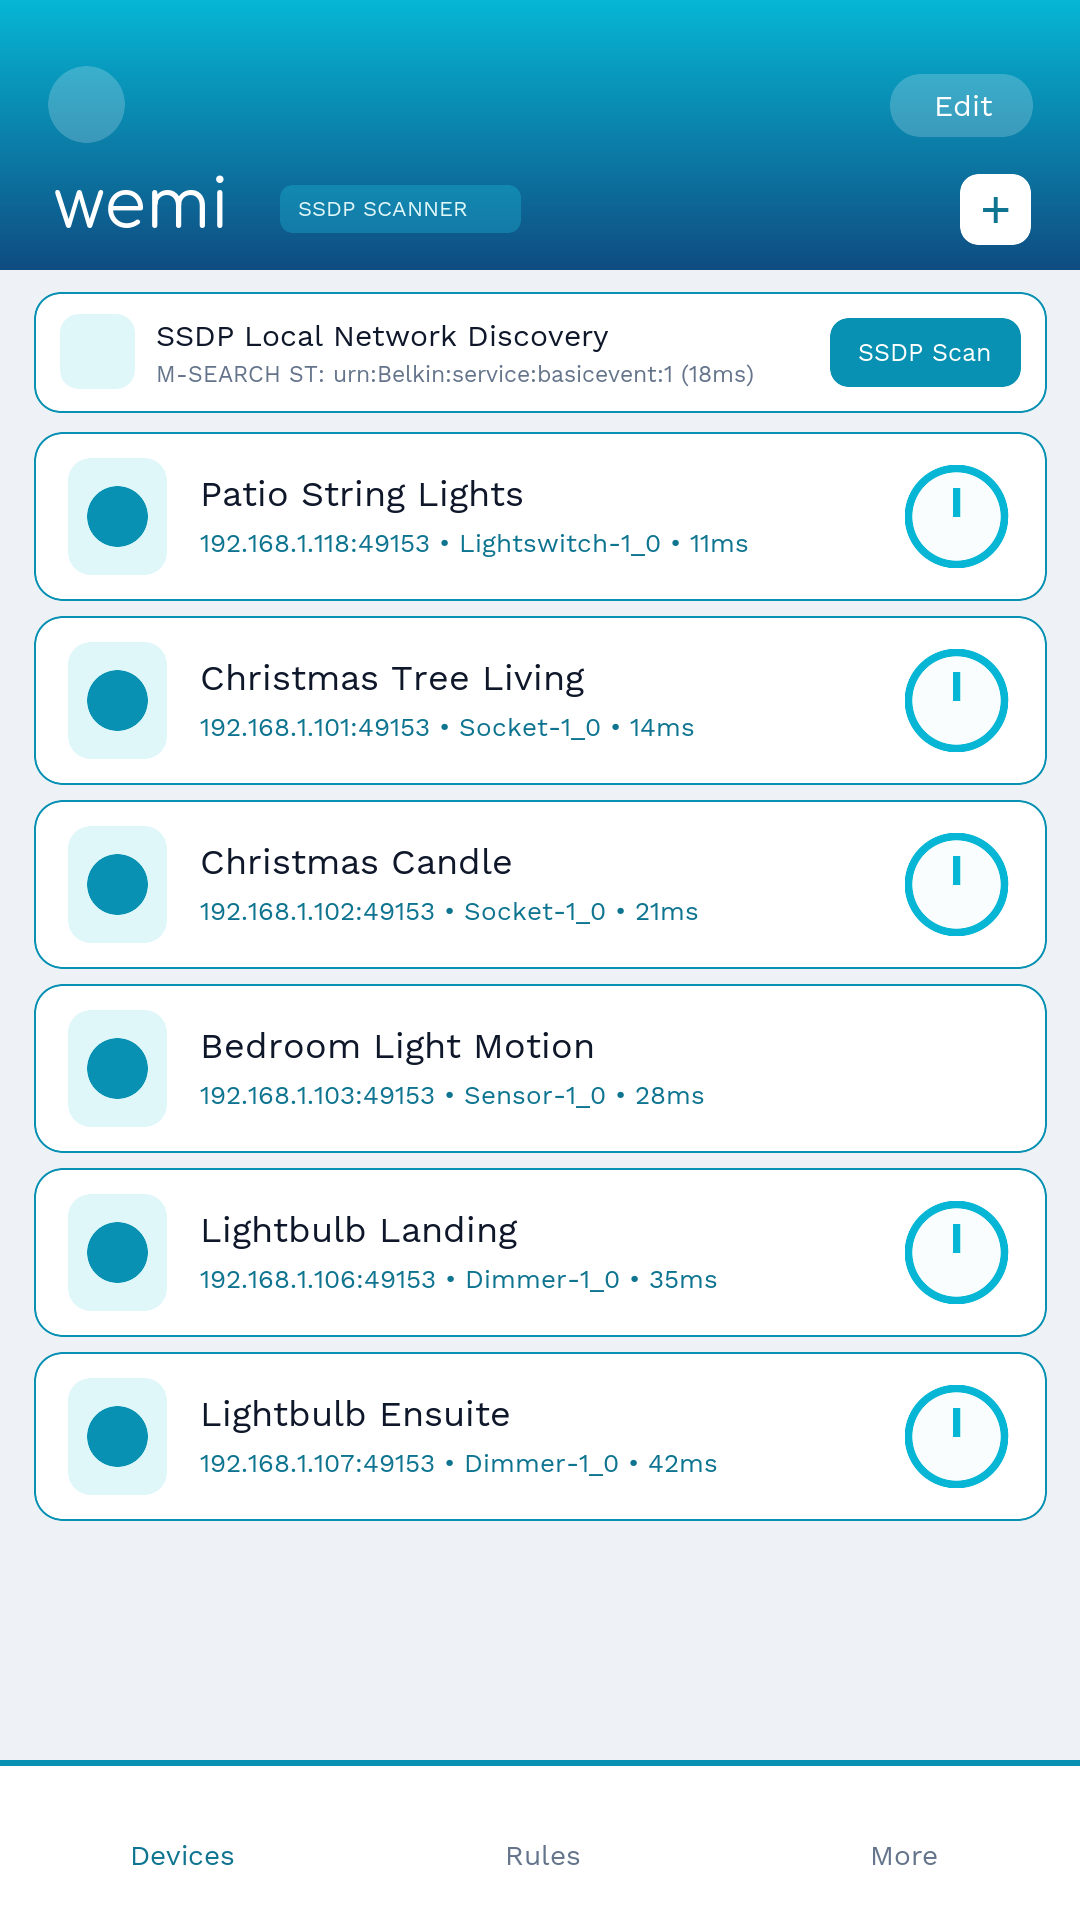
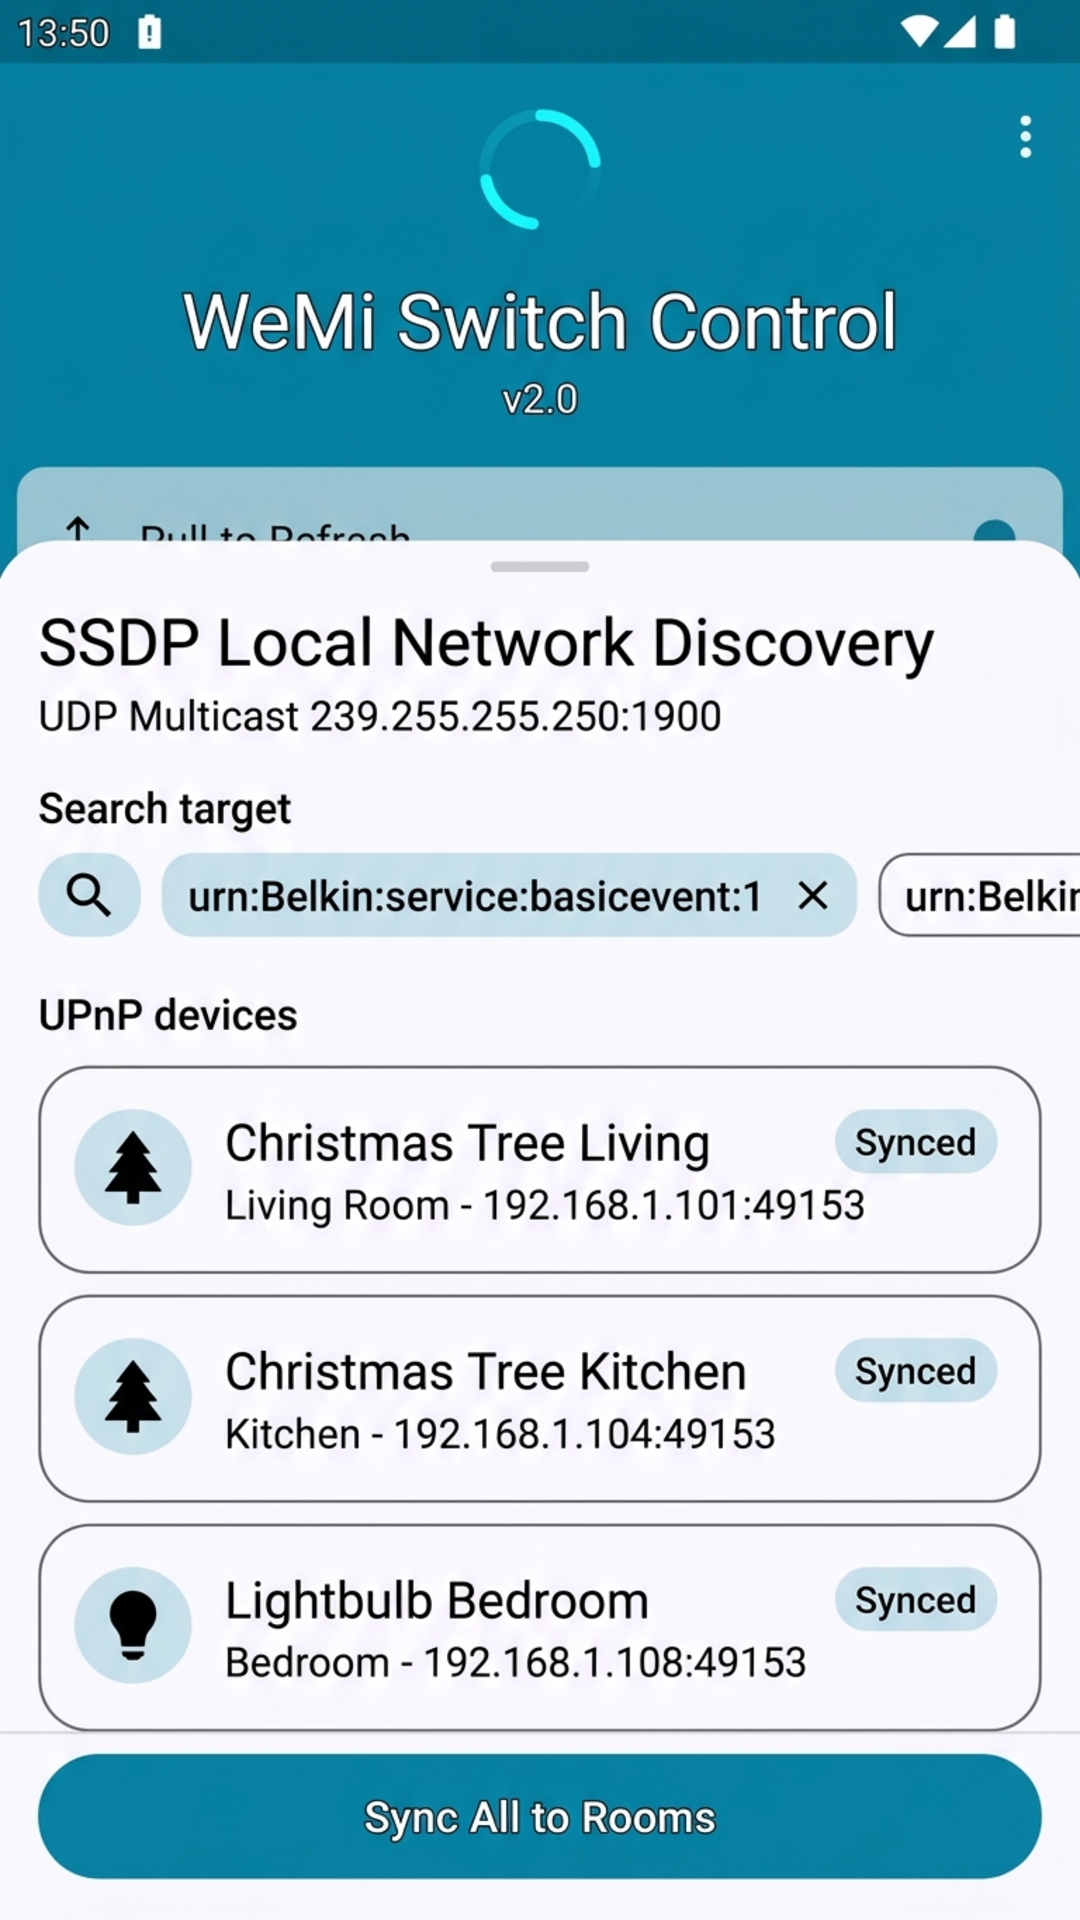
feat: upgrade to v2.0 with room grouping and SSDP
Add support for organizing switches into rooms with master controls and implement pull-to-refresh for SSDP device discovery.

diff --git a/play_store_assets/STORE_LISTING.md b/play_store_assets/STORE_LISTING.md
@@ -1,36 +1,43 @@
-# Google Play Store Listing — WeMi Switch Control
+# Google Play Store Listing — WeMi Switch Control (v2.0)
 
 ## App Identity & Metadata (Play Policy Compliant)
 - **App Title (19 / 30 chars max):** `WeMi Switch Control`
 - **Application ID:** `com.aistudio.wemiswitch.kxpqzr`
+- **Version:** `2.0` (`versionCode = 2`)
 - **Category:** House & Home / Tools
 - **Brand Color Palette:** Ocean Teal (`#0891B2`), Electric Cyan (`#06B6D4`), Deep Sapphire (`#0F4C81`), Cool Slate (`#EEF2F6`)
 - **Content Rating:** Everyone
 
-## Short Description (78 / 80 chars max)
-Local Wi-Fi controller for WeMi and WeMo smart switches, plugs, bulbs & rules.
+## Short Description (79 / 80 chars max)
+Local Wi-Fi controller for WeMi & WeMo switches with Room groups & SSDP scan.
 
 ## Full Description
 WeMi Switch Control brings reliable, instant local-network control back to your home's smart light switches, plugs, dimmable LED bulbs, and motion sensors—styled with a modern Ocean Teal, Electric Cyan, and Sapphire Blue interface.
 
 WeMi Switch Control communicates directly with your switches over your home Wi-Fi network using standard UPnP / SSDP multicast discovery and local SOAP HTTP commands—no cloud account, external server, or subscription required.
 
+### What's New in Version 2.0
+- **Room Grouping System & Master Room Toggle:** Organize switches into rooms (Living Room, Bedroom, Kitchen, Hallway & Landing, Ensuite, Office, Outdoor) and toggle every light in a room ON or OFF simultaneously with one tap on the Master Room Power Ring.
+- **Master Room Brightness Control:** Smoothly adjust the brightness of all dimmable smart bulbs in a room at once (`1%–100%`).
+- **Pull-to-Refresh SSDP Network Scan:** Swipe down on the Devices list at any time to broadcast a live UDP multicast `M-SEARCH` scan (`239.255.255.250:1900`) and sync newly discovered switches into their assigned rooms.
+
 ### Key Features
-- **Instant One-Tap Cyan Power Ring Toggles:** Turn light switches, holiday lights, and smart outlets ON or OFF directly over your local Wi-Fi network.
+- **Instant One-Tap Cyan Power Ring Toggles:** Turn individual switches or entire room groups ON or OFF directly over your local Wi-Fi network.
+- **Room Filter Chips & Collapsible Room Cards:** Filter your dashboard by room or switch between Grouped by Room and Flat List views in a single tap.
 - **Inline Brightness & Dimmer Drawer:** Smoothly dim smart bulbs and dimmer switches from 1% to 100%, or jump to quick brightness presets (21%, 50%, 75%, 100%).
-- **Interactive SSDP Local Wi-Fi Scanner:** Broadcast `M-SEARCH` packets over `239.255.255.250:1900` across `urn:Belkin:service:basicevent:1`, `urn:Belkin:device:**`, and `upnp:rootdevice` to automatically discover switches and inspect their `/setup.xml` descriptors.
+- **Interactive SSDP Local Wi-Fi Scanner:** Broadcast `M-SEARCH` packets over `239.255.255.250:1900` across `urn:Belkin:service:basicevent:1`, `urn:Belkin:device:**`, and `upnp:rootdevice` to automatically discover switches, inspect their `/setup.xml` descriptors, and infer room assignments.
 - **Motion Sensor Status & Triggers:** View the latest motion detection timestamps and link motion events to turn on bedroom or hallway lights automatically.
 - **Local Rules & Schedules:** Create daily schedules, sunset timers, motion triggers, and auto-off countdowns that execute locally.
 - **Built-In UPnP / SOAP Packet Inspector:** Diagnose network connectivity and inspect real-time `GetBinaryState` and `SetBinaryState` XML payloads from the More tab.
 
 ## Complete Google Play Console Asset Inventory (`/play_store_assets/`)
-1. **High-Res App Icon (`play_store_icon_512x512.png`):** 512 × 512 px, PNG.
+1. **High-Res App Icon (`play_store_icon_512x512.png`):** 512 × 512 px, 32-bit PNG.
 2. **Feature Graphic (`feature_graphic_1024x500.png`):** 1024 × 500 px, PNG.
 3. **Phone Screenshots (`screenshots/phone/` — 1080 × 1920 px, 9:16 PNG):**
-   - `phone_1_devices_and_power_rings.png` (Devices & Power Rings)
-   - `phone_2_ssdp_network_scanner.png` (SSDP Network Discovery Scanner & Discovered List)
-   - `phone_3_inline_dimmer_control.png` (Inline Cyan Dimmer & Presets)
-   - `phone_4_local_rules_and_upnp_log.png` (Local LAN Rules & SOAP Packet Log)
+   - `phone_1_devices_and_power_rings.png` (Room Grouping System & Master Room Power Rings)
+   - `phone_2_ssdp_network_scanner.png` (Pull-to-Refresh & SSDP Network Discovery Scanner)
+   - `phone_3_inline_dimmer_control.png` (Master Room Dimmer & Inline Bulb Brightness Presets)
+   - `phone_4_local_rules_and_upnp_log.png` (Local LAN Automation Rules & Live UPnP/SOAP Packet Log)
 4. **7-Inch Tablet Screenshots (`screenshots/tablet_7_inch/` — 1200 × 1920 px PNG):**
    - `tablet7_1_devices_dashboard.png`
    - `tablet7_2_ssdp_and_rules.png`
